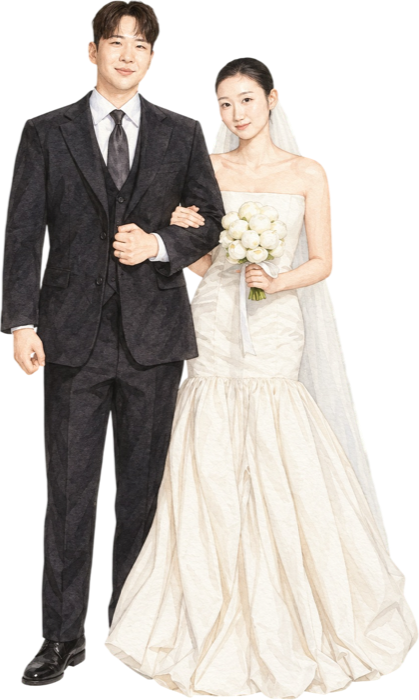
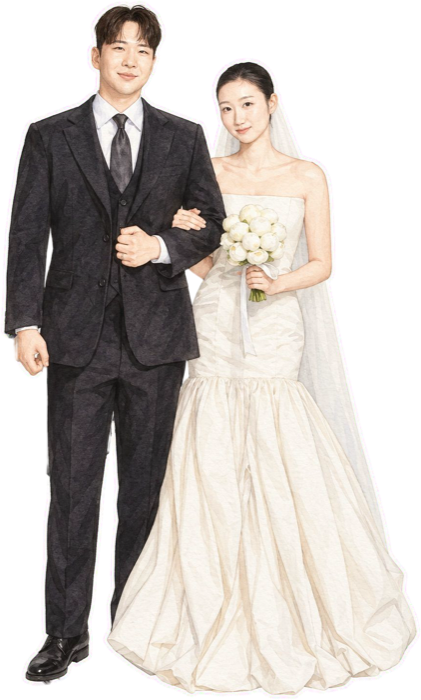
feat: 확대 막기 · 커버 높이 고정 · Scene2 올리브 가지 · 두 사람 컷아웃 · Scene4 사진 · 웨딩 사진 셋 (WIW-4)
layout.tsx viewport(maximum-scale 1, user-scalable no), page.tsx(fixVh · 제스처 차단 · #info · 사진 마크업), globals.css. public/scene1/couple.png 새 원본, scene2/branch.png(frame.png 삭제), scene4/groom-child.jpg 새 원본, scene6/groom.jpg · scene7/bride.jpg · scene8/couple.jpg. 디자인 논의 T83.

Claude-Session: https://claude.ai/code/session_01R1Zoy2TveH4pdvyLwuKBpD

diff --git a/src/app/globals.css b/src/app/globals.css
@@ -1,6 +1,7 @@
 @import "tailwindcss";
 
 /* WIW-4 임시 적용. docs/artifacts/index.html의 CSS를 옮긴 것입니다(docs/scripts/sync-globals.mjs). 글꼴 확인 패널은 옮기지 않았습니다. */
+html { touch-action: pan-y; }   /* 손가락 두 개 확대와 두 번 탭 확대를 막습니다(T83). 세로 스크롤만. 메타의 user-scalable=no와 스크립트의 gesturestart 차단이 나머지 브라우저를 맡습니다 */
 :root {
   --paper-bg: #F3ECDF;
   --paper: #FBF7EF;
@@ -34,7 +35,7 @@ body {
   box-shadow: 0 0 40px -20px rgba(70, 48, 24, 0.5);
 }
 .block { position: relative; }
-.block--fixed { min-height: 100svh; }   /* dvh가 아니라 svh(T72). 툴바가 접히고 펴져도 높이가 변하지 않아 스크롤 중 아래 내용이 밀리지 않습니다 */
+.block--fixed { min-height: var(--vh-fixed, 100svh); }   /* 처음 잰 화면 높이를 px로 박은 값(T83, 스크립트 fixVh). 그 전엔 svh(T72). 카카오톡 인앱 브라우저는 주소창이 사라질 때 창 높이 자체가 바뀌어 svh까지 변하므로, 스크롤 중 커버 높이가 변해 아래 내용이 밀렸습니다 */
 
 /* 1. 커버. 종이 무대 위의 두 사람. 홀 사진은 그대로(불투명도 1), 두 사람은 통로 위에 서며, 이름이 주인공입니다 */
 #cover {
@@ -42,7 +43,7 @@ body {
   flex-direction: column;
   align-items: center;
   justify-content: space-between;
-  padding: calc(56px + env(safe-area-inset-top)) 24px 48px;   /* 아래 여백은 배경(커버 상자 = 100svh) 아랫변 기준 48px. 안전 영역을 더하지 않습니다(T50) */
+  padding: calc(56px + env(safe-area-inset-top)) 24px 48px;   /* 아래 여백은 배경(커버 상자 = 고정 높이) 아랫변 기준 48px. 안전 영역을 더하지 않습니다(T50) */
   overflow: hidden;
   isolation: isolate;   /* 커버 안의 층 순서를 커버 안에서 닫습니다(T66) */
 }
@@ -85,23 +86,14 @@ body {
 .names__name { font-family: var(--font-name); font-size: 20px; font-weight: 700; letter-spacing: 0.14em; text-indent: 0.14em; line-height: 1.35; color: var(--ink); }
 .names__and { font-family: var(--font-ui); font-size: 12px; letter-spacing: 0.1em; color: var(--muted); line-height: 1.4; }
 
-/* 2. 핵심 정보. 액자(장식 테두리 선화. 이산하가 준 그림 `public/scene2/frame.png`, T55) 안에 날짜·시간·장소. 그림 안쪽은 투명이라 바탕 종이색이 그대로 보입니다 */
-#info { display: flex; align-items: center; justify-content: center; padding: 40px 12px; }
-.frame {
-  position: relative;
-  width: min(100%, calc((100svh - 80px) * 940 / 1672));
-  aspect-ratio: 940 / 1672;
-}
-.frame__art { position: absolute; inset: 0; width: 100%; height: 100%; object-fit: contain; }
-/* 글은 테두리 안쪽(가로 12~88%, 세로 13~85%. 위아래 가운데 장식과 옆 가운데 장식을 피한 값)에 세로 가운데로 쌓습니다. 크기는 두 가지(T51) */
-.frame__text {
-  position: absolute; left: 12%; right: 12%; top: 13%; height: 72%;
-  display: flex; flex-direction: column; align-items: center; justify-content: center;
-  font-family: var(--font-name); text-align: center; white-space: nowrap;
-}
-.frame__big { font-size: 20px; font-weight: 700; line-height: 1.6; color: var(--ink); }
-.frame__small { font-size: 15px; line-height: 1.7; color: var(--ink-soft); }
-.frame__gap { height: 16px; }
+/* 2. 핵심 정보(T83). 올리브 가지 그림(이산하가 준 `public/scene2/branch.png`) 하나를 글 위에, 같은 그림을 180° 돌려 아래에 둡니다. 높이는 화면이 아니라 내용대로입니다(액자가 없어져 화면을 채울 필요가 없습니다). 글은 두 크기(T51) */
+#info { display: flex; flex-direction: column; align-items: center; gap: 14px; padding: 36px 24px; }   /* 처음 72px · 26px이 너무 길어 반으로(T83 추가 지시) */
+.info__branch { width: 32px; height: auto; }   /* 처음 190px에서 1/6로(T83 추가 지시) */
+.info__branch--flip { transform: rotate(180deg); }
+.info__text { display: flex; flex-direction: column; align-items: center; font-family: var(--font-name); text-align: center; white-space: nowrap; }
+.info__big { font-size: 20px; font-weight: 700; line-height: 1.6; color: var(--ink); }
+.info__small { font-size: 15px; line-height: 1.7; color: var(--ink-soft); }
+.info__gap { height: 16px; }
 
 /* 3. 인사(와이어프레임 4쪽, 0.3화면). 쪽지 두 장에 한 줄씩. 화자 캐릭터(수달 = 신랑, 토끼 = 신부. 이산하가 준 스티커 그림, T52)가 쪽지 위 모서리에 걸칩니다. 신랑 쪽지는 오른쪽 정렬에 오른쪽 위, 신부 쪽지는 왼쪽 정렬에 왼쪽 위. 종이 결은 그림(`public/paper/note.png`), 그늘·기울기는 CSS */
 .greeting { display: flex; flex-direction: column; gap: 22px; padding: 40px 24px 14px; }
@@ -143,13 +135,8 @@ body {
 .note--right.note--who-left .note__who { right: auto; left: -9px; transform: rotate(-5deg); }
 /* 합창 메모지(T65). 화자 둘이 오른쪽 위에 나란히. 바깥쪽이 첫째, 안쪽(`--inner`)이 둘째 */
 .note--right .note__who--inner { right: 46px; transform: rotate(-4deg); }
-/* 사진 자리표시(T65). 웨딩 사진이 오기 전 같은 크기의 빈 종이. 세로 3:4로 잡아 둡니다 */
 .photo-paper--center { align-self: center; transform: rotate(0.4deg); }
-.photo-paper__blank {
-  position: relative; aspect-ratio: 3 / 4; display: flex; align-items: center; justify-content: center;
-  background: rgba(70, 48, 24, 0.05); font-family: var(--font-ui); font-size: 12px; letter-spacing: 0.06em; color: var(--muted);
-}
-.photo-paper__blank span { padding: 6px 10px; border: 1px dashed rgba(70, 48, 24, 0.25); }
+.photo-paper--wide { width: 90%; }   /* 가로 사진(Scene7 · 8)은 폭 9/10(T83). 자리표시(T65)는 웨딩 사진 셋이 들어와 지웠습니다 */
 /* 컷아웃 스티커(T61 · T62 · T67). 본문 안의 float라 글이 그 네모 영역(여백 포함)을 피해 흐릅니다(실루엣 아님, T62). 앞의 빈 float(`.note__push`, 폭 0 · 두 줄 높이)를 clear로 넘어 셋째 줄부터 비킵니다. 아래 여백은 음수로 두지 않습니다. 음수면 그림 아랫부분을 상자 밖으로 쳐서 줄이 적은 넓은 화면에서 마지막 줄이 그림에 덮였습니다(T67). 그래서 컷아웃은 메모지 안에 온전히 있고 바깥쪽으로만 조금 나갑니다 */
 .note__push { float: right; width: 0; height: 58px; }   /* 두 줄(18px × 1.6) */
 .note__push--left { float: left; }

diff --git a/src/app/page.tsx b/src/app/page.tsx
@@ -16,6 +16,39 @@ export default function Home() {
   const coverRef = useRef<HTMLElement>(null);
   const [menuOpen, setMenuOpen] = useState(false);
   const [introDone, setIntroDone] = useState(false);
+  const vhLockedRef = useRef(false);
+
+  // 화면 높이 고정 · 확대 막기(디자인 논의 T83). 카카오톡 인앱 브라우저는 스크롤로 주소창이 사라질 때 창 높이 자체가 바뀌어 svh까지 변하므로, 처음 잰 높이를 --vh-fixed(px)로 박습니다. 폭이 바뀌면(회전 · 창 크기 조절) 다시 재고 높이만 바뀌는 것(툴바)은 무시합니다. 인앱 브라우저는 열린 직후 툴바를 자리 잡으며 높이가 한 번 더 바뀌므로, 스크롤하기 전(진입 장면 중)에는 높이 변화도 받습니다. iOS는 메타의 user-scalable=no를 무시하므로 손가락 두 개 움직임과 제스처 이벤트도 막습니다
+  useEffect(() => {
+    const root = document.documentElement;
+    let width = 0;
+    const fix = () => {
+      width = window.innerWidth;
+      root.style.setProperty("--vh-fixed", `${window.innerHeight}px`);
+    };
+    const onResize = () => {
+      if (window.innerWidth !== width || !vhLockedRef.current) fix();
+    };
+    const onScroll = () => {
+      if (window.scrollY > 0) vhLockedRef.current = true;
+    };
+    const onGesture = (e: Event) => e.preventDefault();
+    const onPinch = (e: TouchEvent) => {
+      if (e.touches.length > 1) e.preventDefault();
+    };
+    fix();
+    window.addEventListener("resize", onResize);
+    window.addEventListener("scroll", onScroll, { passive: true });
+    document.addEventListener("gesturestart", onGesture);
+    document.addEventListener("touchmove", onPinch, { passive: false });
+    return () => {
+      window.removeEventListener("resize", onResize);
+      window.removeEventListener("scroll", onScroll);
+      document.removeEventListener("gesturestart", onGesture);
+      document.removeEventListener("touchmove", onPinch);
+      root.style.removeProperty("--vh-fixed");
+    };
+  }, []);
 
   useEffect(() => {
     const root = document.documentElement;
@@ -204,17 +237,16 @@ export default function Home() {
             <div className="names__name">송시야</div>
           </div>
         </section>
-        <section id="info" className="block block--fixed">
-          <div className="frame">
-            <img className="frame__art" src="/scene2/frame.png" alt="" />
-            <div className="frame__text">
-              <div className="frame__big">2026년 10월 9일</div>
-              <div className="frame__big">금요일 오후 6시 30분</div>
-              <div className="frame__gap" />
-              <div className="frame__small">더채플앳청담 3층 커티지홀</div>
-              <div className="frame__small">강남구 선릉로 757</div>
-            </div>
+        <section id="info" className="block">
+          <img className="info__branch" src="/scene2/branch.png" width={240} height={139} alt="" />
+          <div className="info__text">
+            <div className="info__big">2026년 10월 9일</div>
+            <div className="info__big">금요일 오후 6시 30분</div>
+            <div className="info__gap" />
+            <div className="info__small">더채플앳청담 3층 커티지홀</div>
+            <div className="info__small">강남구 선릉로 757</div>
           </div>
+          <img className="info__branch info__branch--flip" src="/scene2/branch.png" width={240} height={139} alt="" />
         </section>
         <section id="greeting" className="block greeting">
           <div className="note note--right">
@@ -235,7 +267,7 @@ export default function Home() {
         <section id="part1-groom" className="block story">
           <div className="photo-paper">
             <img className="note__paper" src="/paper/note.png" alt="" />
-            <img className="photo-paper__photo" src="/scene4/groom-child.jpg" width={650} height={900} alt="신랑 어릴 적 사진" />
+            <img className="photo-paper__photo" src="/scene4/groom-child.jpg" width={641} height={900} alt="신랑 어릴 적 사진" />
           </div>
           <div className="note note--left note--memo note--tuck">
             <img className="note__paper" src="/paper/note.png" alt="" />
@@ -273,9 +305,7 @@ export default function Home() {
           </div>
           <div className="photo-paper photo-paper--right">
             <img className="note__paper" src="/paper/note.png" alt="" />
-            <div className="photo-paper__blank">
-              <span>신랑 웨딩 사진</span>
-            </div>
+            <img className="photo-paper__photo" src="/scene6/groom.jpg" width={688} height={900} alt="신랑 웨딩 사진" />
           </div>
           <div className="note note--left note--memo note--tuck">
             <img className="note__paper" src="/paper/note.png" alt="" />
@@ -289,11 +319,9 @@ export default function Home() {
           </div>
         </section>
         <section id="part2-bride" className="block story">
-          <div className="photo-paper photo-paper--left">
+          <div className="photo-paper photo-paper--left photo-paper--wide">
             <img className="note__paper" src="/paper/note.png" alt="" />
-            <div className="photo-paper__blank">
-              <span>신부 웨딩 사진</span>
-            </div>
+            <img className="photo-paper__photo" src="/scene7/bride.jpg" width={1100} height={720} alt="신부 웨딩 사진" />
           </div>
           <div className="note note--right note--memo note--tuck">
             <img className="note__paper" src="/paper/note.png" alt="" />
@@ -307,11 +335,9 @@ export default function Home() {
           </div>
         </section>
         <section id="part3" className="block story">
-          <div className="photo-paper photo-paper--center">
+          <div className="photo-paper photo-paper--center photo-paper--wide">
             <img className="note__paper" src="/paper/note.png" alt="" />
-            <div className="photo-paper__blank">
-              <span>함께 있는 컷</span>
-            </div>
+            <img className="photo-paper__photo" src="/scene8/couple.jpg" width={1100} height={733} alt="이산하와 송시야" />
           </div>
           <div className="note note--right note--memo note--tuck note--indent">
             <img className="note__paper" src="/paper/note.png" alt="" />

diff --git a/src/app/layout.tsx b/src/app/layout.tsx
@@ -50,8 +50,9 @@ export const metadata: Metadata = {
 export const viewport: Viewport = {
   width: "device-width",
   initialScale: 1,
+  maximumScale: 1,
+  userScalable: false, // 확대 막기(디자인 논의 T83). iOS는 무시하므로 page.tsx가 제스처도 막습니다
   viewportFit: "cover",
-  colorScheme: "light",
   themeColor: "#F3ECDF",
 };
 
